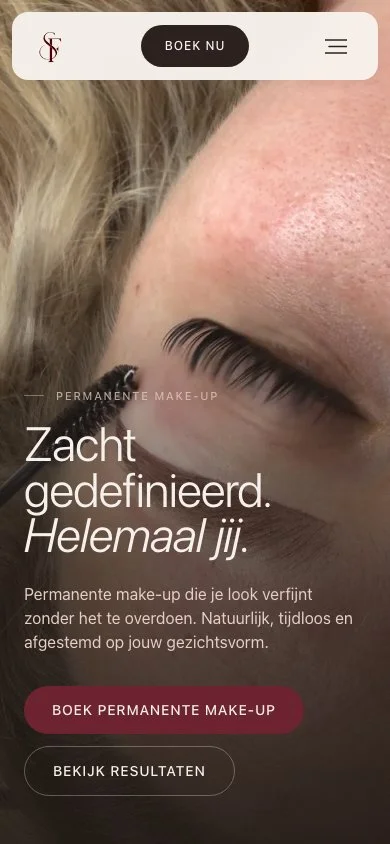
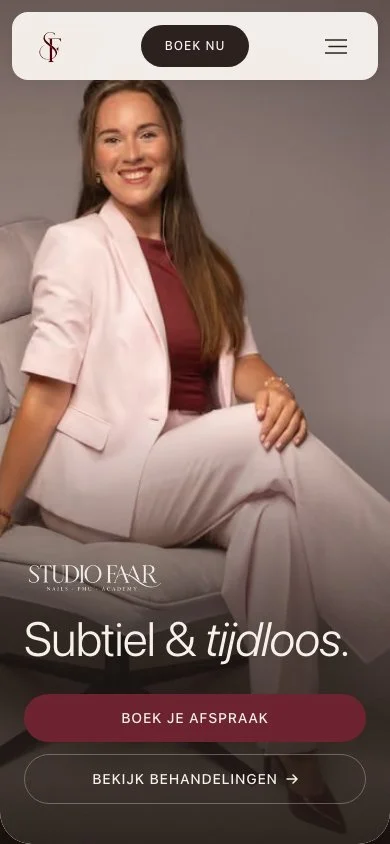
Update Studio Faar to use homepage screenshot

diff --git a/src/data/projects.js b/src/data/projects.js
@@ -159,7 +159,7 @@ export const projects = [
     year: 2026,
     status: 'published',
     featured: false,
-    liveUrl: 'https://studiofaar.traha.app/permanente-make-up',
+    liveUrl: 'https://studiofaar.traha.app/',
     appStoreUrl: null,
     playStoreUrl: null,
     tags: ['Beauty', 'Lifestyle', 'Booking', 'Website'],
